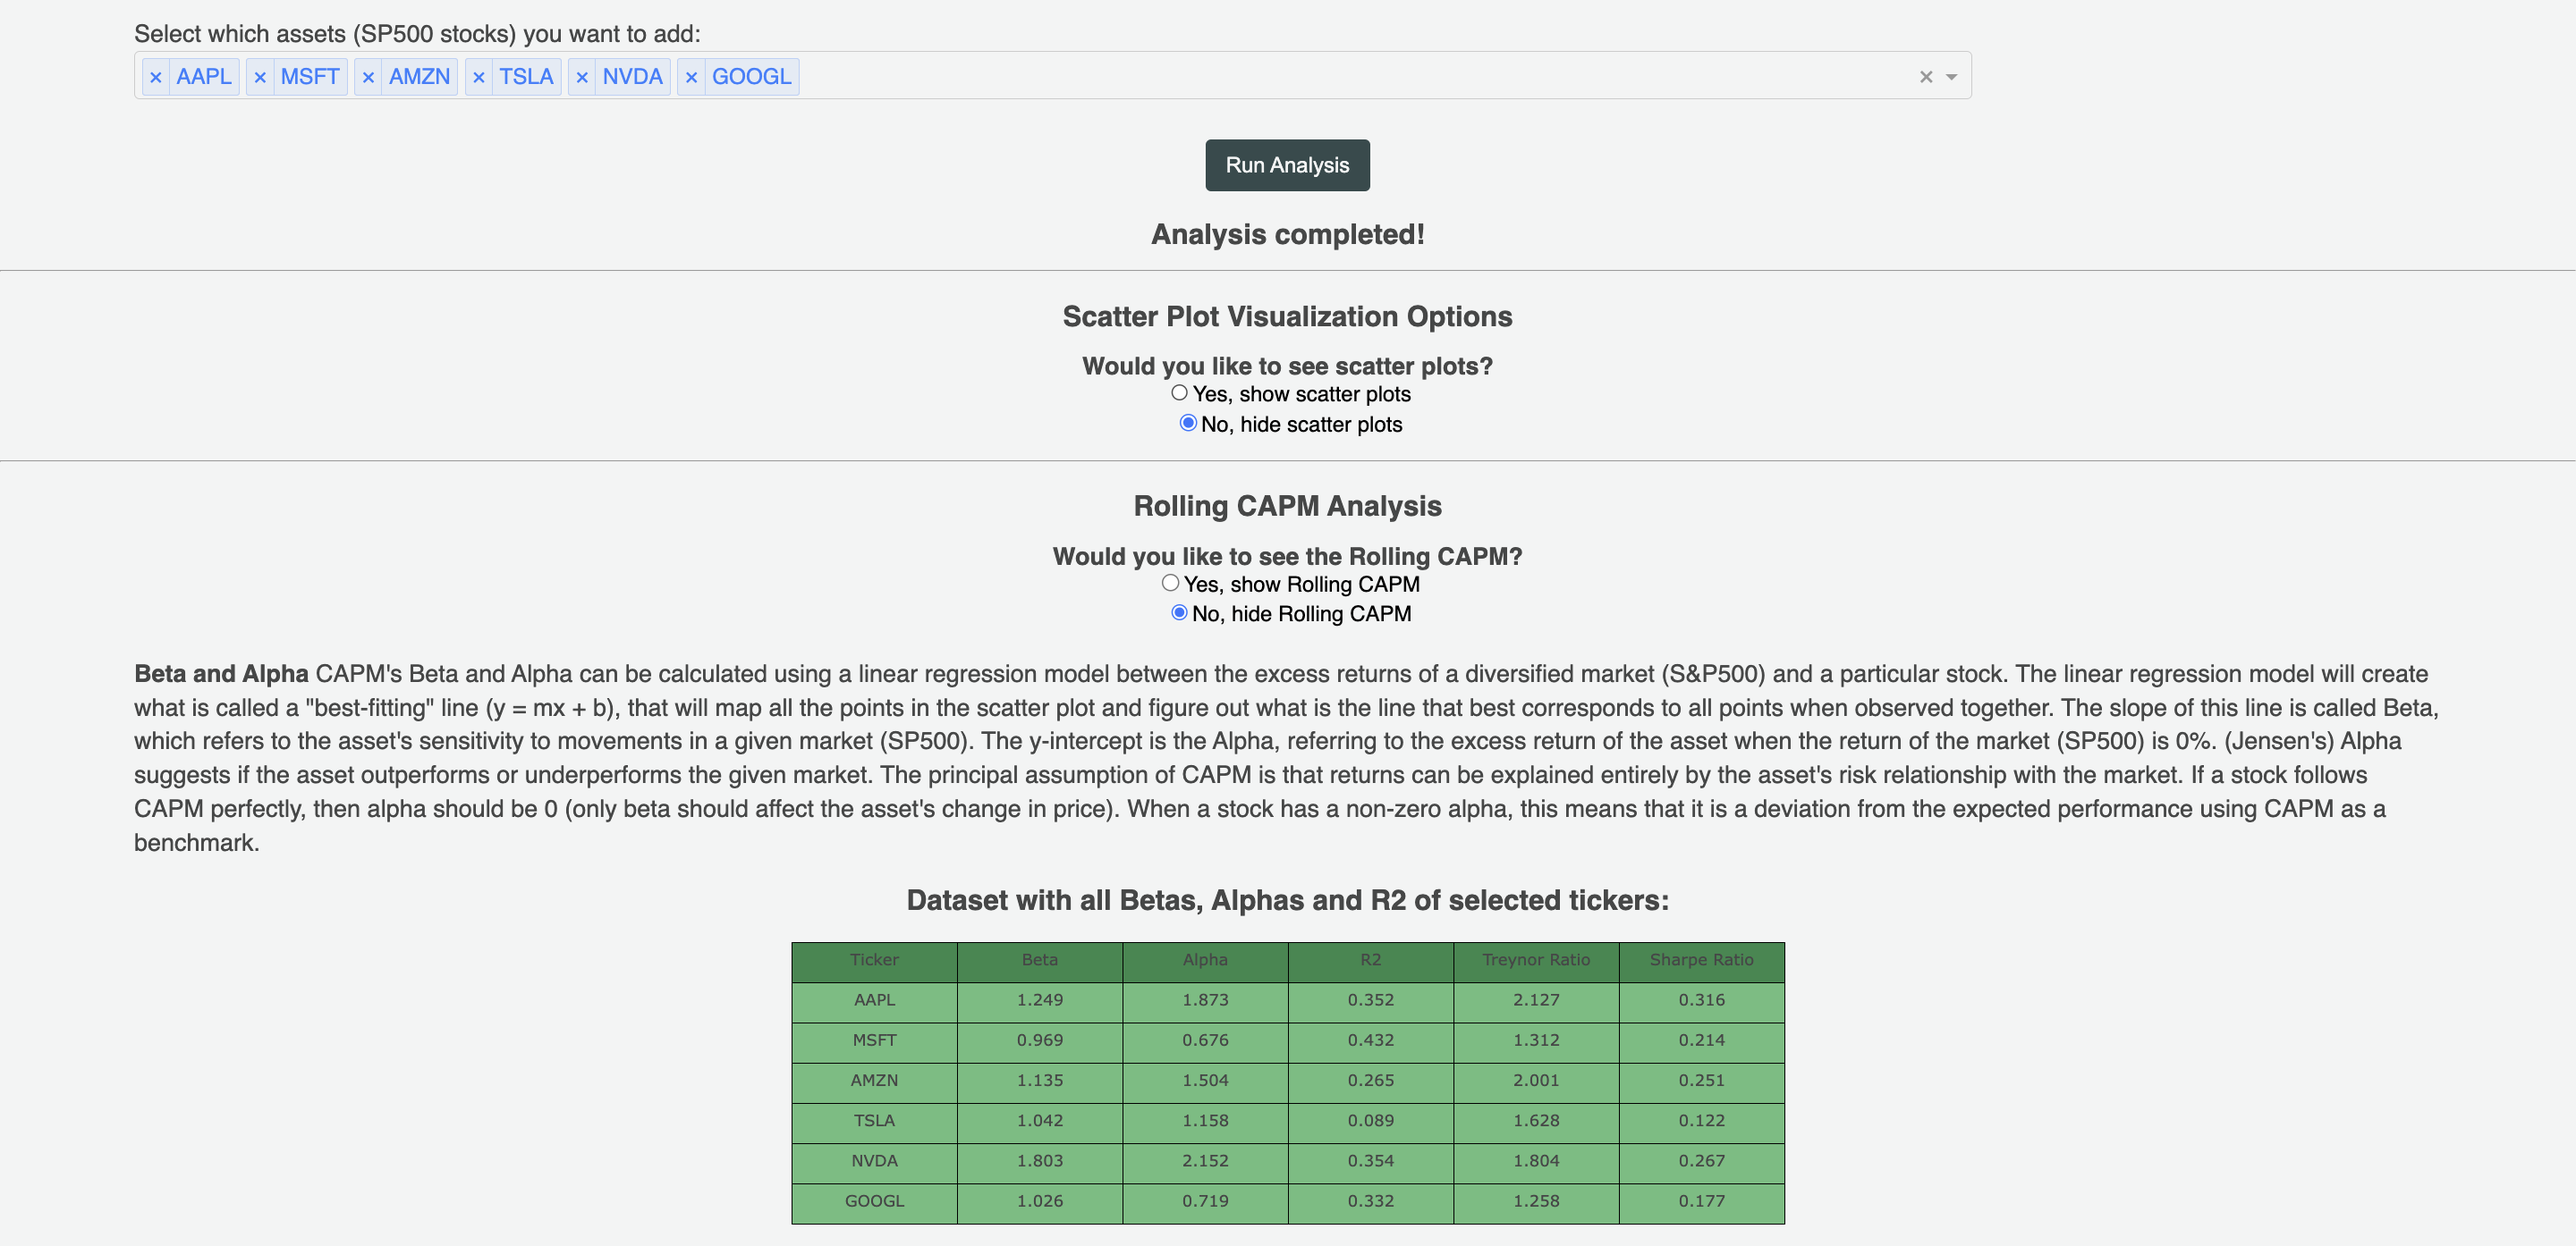
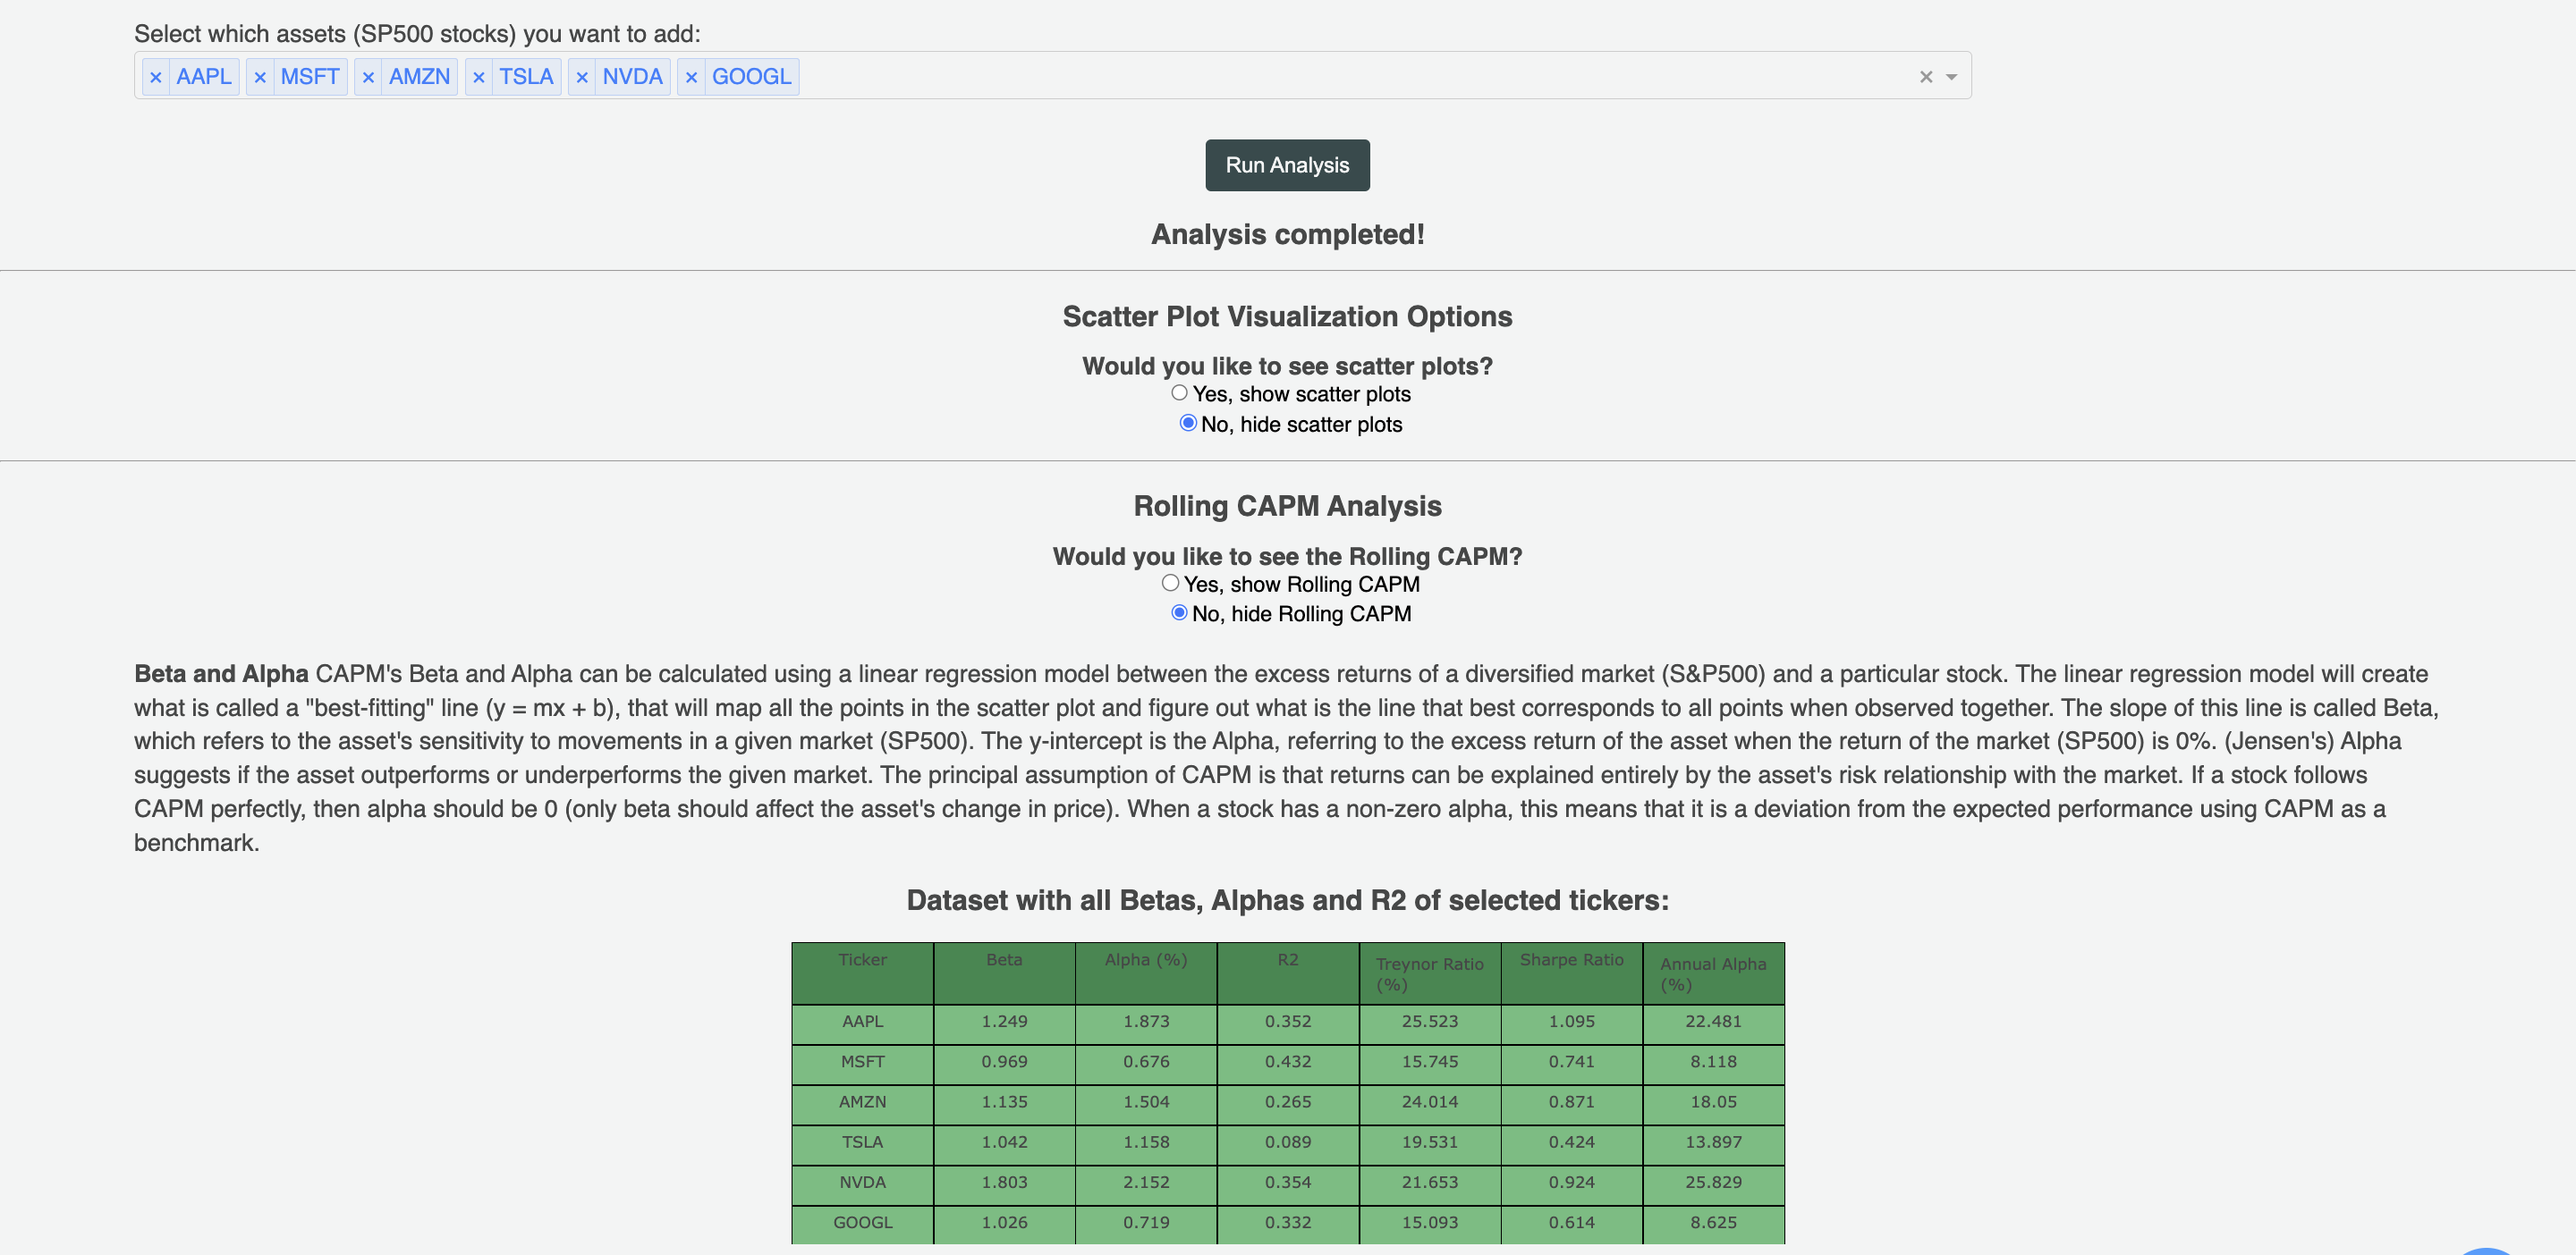
Fixing Calculations

diff --git a/app.py b/app.py
@@ -122,7 +122,7 @@ app.layout = html.Div(style={'backgroundColor': colors['background']}, children=
     dcc.Markdown('''
     **Purpose and Objective**
     This WebApp uses the yFinance, Plotly, Dash and OLS APIs, allowing the user to analyze the risk-return relationship of any stocks within the S&P 500. The program will calculate the Betas,
-                 Jansen's Alphas (using the OLS best-fitting line module), R2 (of the best-fitting line), Sharpe Ratio, Treynor Ratio and Rolling CAPM Analysis (Rolling Beta, Rolling Alpha and
+                 Jensen's Alphas (using the OLS best-fitting line module), R2 (of the best-fitting line), Sharpe Ratio, Treynor Ratio and Rolling CAPM Analysis (Rolling Beta, Rolling Alpha and
                  Rolling R2). This provides the user a comprehensive understanding and a clear visualization of assets' risk, and their relationship with the S&P 500.
                  
     **Analysis Tool**
@@ -349,7 +349,7 @@ def update_output_analysis(n_clicks,selected_tickers):
     rf = risk_free_rate.mean()
 
     #DataFram that will contain all betas, alphas, R2 and Treynor Ratio of selected stocks
-    stocks_info = pd.DataFrame(columns = ['Ticker','Beta','Alpha','R2','Treynor Ratio','Sharpe Ratio'])
+    stocks_info = pd.DataFrame(columns = ['Ticker','Beta','Alpha (%)','R2','Treynor Ratio (%)','Sharpe Ratio', 'Annual Alpha (%)'])
     
     #Running the Analysis from the ticker_analyzer file
     #Each iteration will generate a scatter plot for a given ticker with the S&P 500
@@ -389,8 +389,13 @@ def update_output_analysis(n_clicks,selected_tickers):
 
         #Rounding each information
         beta = round(beta,3)
-        alpha = round(alpha,3)
+        alpha_rounded = round(alpha,3)
         r_squared = round(r_squared,3)
+
+        #Making Alpha annualized
+        annual_alpha = alpha*12
+        annual_alpha = round(annual_alpha,3)
+        
 
         #CAPM formula is: E[rA] = rf + βA × (E[rm] - rf)
         #rf and E[rm] are the same for all assets, so calculated before for loop
@@ -400,15 +405,20 @@ def update_output_analysis(n_clicks,selected_tickers):
         #Average excess return of each asset / Asset Beta
         mean_excess_returns = ticker_excess_returns_df.mean()
         treynor_ratio = mean_excess_returns/beta
+
+        #Data is in monthly timeframe, so I need to make it annualized
+        treynor_ratio = treynor_ratio*12
         treynor_ratio = round(treynor_ratio,3)
 
         #Sharpe Ratio = (Portfolio Return - Risk-Free Rate) / Standard deviation of portfolio's excess returns
         std_dev_excess_returns = ticker_excess_returns_df.std()
-        sharpe_ratio = mean_excess_returns/std_dev_excess_returns
+        #Data is in monthly timeframe, so I need to make it annualized
+        #Multiplying by sqrt(12) because sharpe ratio uses std deviation (has to be sqrt of time)
+        sharpe_ratio = (mean_excess_returns/std_dev_excess_returns)*(12**0.5)
         sharpe_ratio = round(sharpe_ratio,3)
 
         #Saving the Beta, Alpha, R2, Treynor and Sharpe Ratio of each ticker to the dataframe
-        stocks_info.loc[each_ticker] = [each_ticker, beta, alpha, r_squared, treynor_ratio,sharpe_ratio]
+        stocks_info.loc[each_ticker] = [each_ticker, beta, alpha_rounded, r_squared, treynor_ratio,sharpe_ratio, annual_alpha]
  
         #Updating the points of the scatter plot to match the color of the entire page
         scatter_fig.update_traces(
@@ -440,7 +450,7 @@ def update_output_analysis(n_clicks,selected_tickers):
                 width=2.5,             
             ),
             showlegend=True,        
-            name=f"Best-Fitting Line: Beta(β)={beta:.3f}; Alpha(α)={alpha:.3f}; R²={r_squared:.3f}"
+            name=f"Best-Fitting Line: Beta(β)={beta:.3f}; Alpha(α)={alpha_rounded:.3f}; R²={r_squared:.3f}"
         )
         
         #Modifying Appearance of the Plot
@@ -465,14 +475,14 @@ def update_output_analysis(n_clicks,selected_tickers):
         ])
     
    
-    #Creating DataTable with all the information inside the dataframe stocks_info
+    #Creating DataTable with all the information inside the dataframe stocks_info apart from the annualized alpha
     stocks_table = go.Figure(data=[go.Table(
         header=dict(values=list(stocks_info.columns),
                     line_color=colors['line_color_table'],
                     fill_color=colors['fill_color_col_table'],
                     align='center',
                     height = 30),
-        cells=dict(values=[stocks_info.index,stocks_info['Beta'],stocks_info['Alpha'],stocks_info['R2'],stocks_info['Treynor Ratio'],stocks_info['Sharpe Ratio']],
+        cells=dict(values=[stocks_info.index,stocks_info['Beta'],stocks_info['Alpha (%)'],stocks_info['R2'],stocks_info['Treynor Ratio (%)'],stocks_info['Sharpe Ratio'],stocks_info['Annual Alpha (%)']],
                    fill_color=colors['fill_color_table'],
                    line_color=colors['line_color_table'],
                    align='center',
@@ -485,7 +495,7 @@ def update_output_analysis(n_clicks,selected_tickers):
     stocks_table.update_layout(
         paper_bgcolor=colors['background'],
         font_color=colors['text'],
-        width=750,  # Make the overall width much smaller
+        width=750,  
         height=table_height,  # Keep height small too
         margin=dict(l=5, r=5, t=5, b=10),  # Minimal margins
         autosize=False
@@ -494,11 +504,11 @@ def update_output_analysis(n_clicks,selected_tickers):
     #Bar chart with all (Jensen's) Alphas for comparison
     alpha_fig = px.bar(stocks_info,
                        x = 'Ticker',
-                       y = 'Alpha',
+                       y = 'Annual Alpha (%)',
                        title= 'Jensen\'s Alpha for each Ticker',
-                       labels= {'Alpha': 'Jensen\'s Alpha (%)'},
-                       text = 'Alpha',
-                       color='Alpha',
+                       labels= {'Annual Alpha (%)': 'Jensen\'s Alpha (%)'},
+                       text = 'Annual Alpha (%)',
+                       color='Annual Alpha (%)',
                        color_continuous_scale=[
                             (0.0, '#891f00'),   # Red for negative values
                             (0.5, "white"), # White for zero
@@ -530,10 +540,10 @@ def update_output_analysis(n_clicks,selected_tickers):
     #Creating bar chart with treynor ratios of selected stocks
     treynor_fig = px.bar(stocks_info,
                          x = 'Ticker',
-                         y= 'Treynor Ratio',
+                         y= 'Treynor Ratio (%)',
                          title= 'Treynor Ratio for each Ticker',
-                        text = 'Treynor Ratio',
-                        color='Treynor Ratio',
+                        text = 'Treynor Ratio (%)',
+                        color='Treynor Ratio (%)',
                         color_continuous_scale=[
                                 (0.0, '#891f00'),   # Red for negative values
                                 (0.5, "white"), # White for zero
@@ -585,7 +595,7 @@ def update_output_analysis(n_clicks,selected_tickers):
                     line=dict(color='black', width=1.5, dash='dash')
                 )
     
-    sharpe_fig.update_traces(texttemplate='%{text:.3f}%', textposition='outside')
+    sharpe_fig.update_traces(texttemplate='%{text:.3f}', textposition='outside')
 
     sharpe_fig.update_layout(
         plot_bgcolor=colors['background'],
@@ -639,7 +649,7 @@ def update_output_analysis(n_clicks,selected_tickers):
                          the market and **Postive Alpha** indicates the asset is overperforming the market.
                          ''', style=text_styles['markdown']),
             
-            html.Div("Jensen's Alpha:", style=text_styles['subtitle']),
+            html.Div("Annualized Jensen's Alpha:", style=text_styles['subtitle']),
             
             html.Div([alpha_bar_chart], style={
                 'display': 'flex',
@@ -650,13 +660,13 @@ def update_output_analysis(n_clicks,selected_tickers):
 
             dcc.Markdown('''**Treynor Ratio:** A performance metric that measures the excess return per unit of systematic risk. 
                          It evaluates how much return an asset/portfolio generates for each unit of market risk (beta) it takes.
-                         Unlike the Sharpe Ratio, which uses total risk (standard deviation) in its calculation, the Treynor 
-                         Ratio only considers systematic risk (risk that cannot be diversified away), hence using Beta for the 
-                         calculation. A higher Treynor Ratio indicates better risk-adjusted performance relative to market risk, meaning
-                         the investment is generating more excess returns per unit of systematic risk (beta).
+                         Treynor Ratio only considers systematic risk (risk that cannot be diversified away), hence using Beta for the 
+                         calculation. Higher values suggest an asset has generated strong excess returns relative to its systematic 
+                         risk (beta). Lower values indicate a lower risk-adjusted return, meaning the investment is generating less 
+                         excess returns per unit of systematic risk (beta).
             ''', style=text_styles['markdown']),
 
-            html.Div("Treynor Ratio:", style=text_styles['subtitle']),
+            html.Div("Annualized Treynor Ratio:", style=text_styles['subtitle']),
             
             html.Div([treynor_bar_chart], style={
                 'display': 'flex',
@@ -667,10 +677,14 @@ def update_output_analysis(n_clicks,selected_tickers):
 
             dcc.Markdown('''**Sharpe Ratio:** Similar to the Treynor Ratio, Sharpe Ratio also measures the return of an investment with its risk.
                          Instead of using the beta for calculating market risk (Treynor Ratio), the Sharpe Ratio uses uses total risk (standard deviation) in its 
-                         calculation. 
+                         calculation. Higher Sharpe ratios indicate more efficient investments that deliver better returns per unit of overall risk. Lower Sharpe
+                         Ratios indicates investments that provide weak returns per unit of overall risk, meaning that for the amount of volatility investors 
+                         have endured with this investment, they've received less compensation in excess returns.
+
+
             ''', style=text_styles['markdown']),
 
-            html.Div("Sharpe Ratio:", style=text_styles['subtitle']),
+            html.Div("Annualized Sharpe Ratio:", style=text_styles['subtitle']),
             
             html.Div([sharpe_bar_chart], style={
                 'display': 'flex',

diff --git a/README.md b/README.md
@@ -71,3 +71,6 @@ A performance metric that measures the excess return per unit of systematic risk
 Similar to the Treynor Ratio, Sharpe Ratio also measures the return of an investment with its risk. Instead of using the beta for calculating market risk (Treynor Ratio), the Sharpe Ratio uses uses total risk (standard deviation) in its calculation. 
 
 <img src="screenshots/4-sharpe-ratio.png" alt="CAPM Scatter Plot - Apple Example"/>
+
+# Future Work
+- Add Rolling Sharpe Ratio - understand how 
